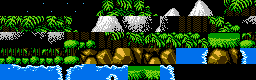
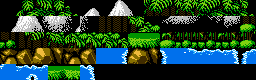
Update: MapEditor

diff --git a/ContraGame/MapEditor/MapEditor.Designer.cs b/ContraGame/MapEditor/MapEditor.Designer.cs
@@ -83,6 +83,7 @@
             this.textBoxCamX = new System.Windows.Forms.TextBox();
             this.label9 = new System.Windows.Forms.Label();
             this.label8 = new System.Windows.Forms.Label();
+            this.checkBox1 = new System.Windows.Forms.CheckBox();
             this.panel1.SuspendLayout();
             ((System.ComponentModel.ISupportInitialize)(this.pictureBoxBG)).BeginInit();
             this.panel2.SuspendLayout();
@@ -499,6 +500,7 @@
             this.imageListBG.Images.SetKeyName(3, "WaterEffect1.png");
             this.imageListBG.Images.SetKeyName(4, "WaterEffect2.png");
             this.imageListBG.Images.SetKeyName(5, "WaterEffect3.png");
+            this.imageListBG.Images.SetKeyName(6, "Star.png");
             // 
             // buttonSave
             // 
@@ -623,11 +625,23 @@
             this.label8.TabIndex = 0;
             this.label8.Text = "Camera : ";
             // 
+            // checkBox1
+            // 
+            this.checkBox1.AutoSize = true;
+            this.checkBox1.Location = new System.Drawing.Point(721, 138);
+            this.checkBox1.Name = "checkBox1";
+            this.checkBox1.Size = new System.Drawing.Size(109, 17);
+            this.checkBox1.TabIndex = 16;
+            this.checkBox1.Text = "Hide Background";
+            this.checkBox1.UseVisualStyleBackColor = true;
+            this.checkBox1.CheckedChanged += new System.EventHandler(this.checkBox1_CheckedChanged);
+            // 
             // MapEditor
             // 
             this.AutoScaleDimensions = new System.Drawing.SizeF(6F, 13F);
             this.AutoScaleMode = System.Windows.Forms.AutoScaleMode.Font;
             this.ClientSize = new System.Drawing.Size(1201, 616);
+            this.Controls.Add(this.checkBox1);
             this.Controls.Add(this.groupBox4);
             this.Controls.Add(this.buttonRest);
             this.Controls.Add(this.buttonSave);
@@ -658,6 +672,7 @@
             this.groupBox4.ResumeLayout(false);
             this.groupBox4.PerformLayout();
             this.ResumeLayout(false);
+            this.PerformLayout();
 
         }
 
@@ -716,6 +731,7 @@
         private System.Windows.Forms.Label label13;
         private System.Windows.Forms.ComboBox comboBoxDir;
         private System.Windows.Forms.ComboBox comboBoxNameItem;
+        private System.Windows.Forms.CheckBox checkBox1;
     }
 }
 

diff --git a/ContraGame/MapEditor/MapEditor.cs b/ContraGame/MapEditor/MapEditor.cs
@@ -77,6 +77,7 @@ namespace MapEditor
             listViewBG.Items.Add("WaterEffect1", 3);
             listViewBG.Items.Add("WaterEffect2", 4);
             listViewBG.Items.Add("WaterEffect3", 5);
+            listViewBG.Items.Add("StarEffect", 5);
 
             // other
             CurrentCursor = CursorCur.NONE;
@@ -449,6 +450,10 @@ namespace MapEditor
                     {
                         imageCursor = FileTool.ResizeImage(imageCursor, 32 * Xwidth, 16);
                     }
+                    else if (imgIndex == 6)
+                    {
+                        imageCursor = FileTool.ResizeImage(imageCursor, 32 * Xwidth, 16);
+                    }
 
 
                 }
@@ -589,6 +594,11 @@ namespace MapEditor
         private void PictureBoxes_MouseLeave(object sender, EventArgs e)
         {
             this.Cursor = new Cursor(((Bitmap)imageCursor).GetHicon());
+        }
+
+        private void checkBox1_CheckedChanged(object sender, EventArgs e)
+        {
+            pictureBoxBG.Visible = !pictureBoxBG.Visible;
         }
     }
 

diff --git a/ContraGame/ContraGame/ScenePlay.cpp b/ContraGame/ContraGame/ScenePlay.cpp
@@ -14,7 +14,7 @@ ScenePlay::ScenePlay()
 
 	_weapon_enemy = new CEnemyWeapon();
 
-
+	m_star = new CGroundStar(123, Ground_Star, D3DXVECTOR3(0, 200, 0), 128, 16);
 	init();
 }
 
@@ -50,7 +50,7 @@ void ScenePlay::update(float time)
 	m_cameraHUD->update(time);
 	m_camera->Update();
 
-	
+	m_star->Update(time);
 	UpdateGlobalVariable();
 }
 
@@ -62,8 +62,9 @@ void ScenePlay::draw()
 	_weapon_enemy->Draw();
 	_weapon_player1->Draw();
 	_player1->Draw();
-
+	
 	m_cameraHUD->draw();
+	m_star->Draw();
 }
 
 void ScenePlay::destroy()

diff --git a/ContraGame/ContraGame/QTTree.cpp b/ContraGame/ContraGame/QTTree.cpp
@@ -241,6 +241,8 @@ CObject * QTTree::getObjectTrust(CObject *x)
 		return new CSniperHide(x->_id, x->getSpecificType(), D3DXVECTOR3(posX, posY, 0), x->getWidth(), x->getHeight());		
 	case Ground_Bridge:
 		return new CAutoDestroyBridge(x->_id, x->getSpecificType(), D3DXVECTOR3(posX, posY, 0), x->getWidth(), x->getHeight());
+	case Ground_Star:
+		return new CGroundStar(x->_id, x->getSpecificType(), D3DXVECTOR3(posX, posY, 0), x->getWidth(), x->getHeight());
 	default:
 		break;
 	}

diff --git a/ContraGame/ContraGame/CGroundStar.cpp b/ContraGame/ContraGame/CGroundStar.cpp
@@ -9,8 +9,7 @@ CGroundStar::CGroundStar(int id, SpecificType specific_type, D3DXVECTOR3 pos, in
 	_time_count = 0;
 	_isDraw = false;
 	_basic_type = Effect;
-	_numSub = rand() % 10 + 10;
-	
+	_indexSprite = rand() % 6;
 	LoadResources();
 }
 
@@ -47,7 +46,7 @@ void CGroundStar::Update(int delta_time)
 		{
 			_time_count = 0;
 		}
-		if (_time_count % _numSub > 5 && _time_count % _numSub < 20)
+		if (_time_count % 20 > 5 && _time_count % 20 < 20)
 		{
 			_isDraw = true;
 		}

diff --git a/ContraGame/ContraGame/CResourcesManager.cpp b/ContraGame/ContraGame/CResourcesManager.cpp
@@ -145,7 +145,7 @@ void CResourcesManager::loadMap1()
 	_ground_water = new CTexture(PATH_GROUND_WATER);
 	_ground_effect1 = new CTexture(PATH_GROUND_EFFECT1);
 	_ground_auto_destroy_bridge = new CTexture(PATH_GROUND_AUTO_DETROY, 1, 6);
-	_ground_star = new CTexture(PATH_GROUND_STAR, 3);
+	_ground_star = new CTexture(PATH_GROUND_STAR, 6);
 
 	//Effect
 	_effect_destroy = new CTexture(PATH_EFFECT_DESTROY, 3);

diff --git a/ContraGame/ContraGame/CGroundStar.h b/ContraGame/ContraGame/CGroundStar.h
@@ -9,7 +9,7 @@ private:
 	int _count;
 	int _time_count;
 	bool _isDraw;
-	int _numSub; //so dc chia
+	
 	int _indexSprite;
 public:
 	CGroundStar(int id, SpecificType specific_type, D3DXVECTOR3 pos, int width, int height);

diff --git a/ContraGame/ContraGame/CObject.cpp b/ContraGame/ContraGame/CObject.cpp
@@ -116,6 +116,10 @@ void CObject::setSpecificType(string x)
 	{
 		setSpecificType(Ground_Water);
 	}
+	else if (x == "StarEffect")
+	{
+		setSpecificType(Ground_Star);
+	}
 }
 
 void CObject::setTrack(string x)

diff --git a/ContraGame/ContraGame/QTTree.h b/ContraGame/ContraGame/QTTree.h
@@ -12,6 +12,7 @@
 #include "CBoss1.h"
 #include "CSniperHide.h"
 #include "CAutoDestroyBridge.h"
+#include "CGroundStar.h"
 
 class QTTree
 {
